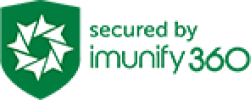
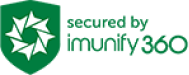
commit

diff --git a/src/components/Hosting.jsx b/src/components/Hosting.jsx
@@ -19,35 +19,22 @@ const Hosting = () => {
                     <div className='lg:w-1/2 w-full px-3 pt-7 md:mt-12 mt-8 lg:mt-0'>
                         <div className='flex flex-wrap flex-row -mx-3'>
                             <div className='w-1/3 px-3 flex items-center justify-center text-center'>
-                                <div className='max-w-[172px] h-[92px] '>
-                                    <img src={cpanel} alt="cpanel"data-aos="flip-up" />
-                                </div>
+                                <img src={cpanel} alt="cpanel" data-aos="flip-up" />
                             </div>
                             <div className='w-1/3 px-3 flex items-center justify-center text-center'>
-                                <div className='max-w-[172px] h-[92px] '>
-                                    <img src={imufy} alt="imufy"data-aos="flip-up" />
-                                </div>
+                                <img src={imufy} alt="imufy" className=' lg:h-[56px] ' data-aos="flip-up" />
                             </div>
                             <div className='w-1/3 px-3 flex items-center justify-center text-center'>
-                                <div className='max-w-[172px] h-[92px] '>
-                                    <img src={lite} alt="litespeed"data-aos="flip-up" />
-                                </div>
+                                <img src={lite} alt="litespeed" data-aos="flip-up" />
                             </div>
                             <div className='w-1/3 px-3 flex items-center justify-center text-center'>
-                                <div className='max-w-[172px] h-[92px] '>
-                                    <img src={softa} alt="softa" className='pt-4'data-aos="flip-down" />
-                                </div>
+                                <img src={softa} alt="softa" className='pt-4' data-aos="flip-down" />
                             </div>
                             <div className='w-1/3 px-3 flex items-center justify-center text-center'>
-                                <div className='max-w-[172px] h-[92px] '>
-                                    <img src={wordpress} alt="wordpress" className='pt-4'data-aos="flip-down" />
-                                </div>
+                                <img src={wordpress} alt="wordpress" className='pt-4' data-aos="flip-down" />
                             </div>
                             <div className='w-1/3 px-3 flex items-center justify-center text-center'>
-                                <div className='max-w-[172px] h-[92px] '>
-                                    <img src={cloud} alt="cloud" className='pt-4'data-aos="flip-down" />
-                                </div>
-
+                                <img src={cloud} alt="cloud" className='pt-4' data-aos="flip-down" />
                             </div>
 
                         </div>

diff --git a/src/pages/News.jsx b/src/pages/News.jsx
@@ -8,14 +8,16 @@ import Backtotop from '../components/Backtotp';
 
 function News() {
   return (
-      <div>
-          <Navsec/>
-          <Timemap />
-          <Lamon />
-          <Stories />
-          <Footersec />
-          <Backtotop/>
-      
+    <div>
+      <Navsec />
+      <Timemap />
+      <Lamon />
+      <Stories />
+      <div className='pt-12'>
+        <Footersec />
+      </div>
+      <Backtotop />
+
     </div>
   )
 }
